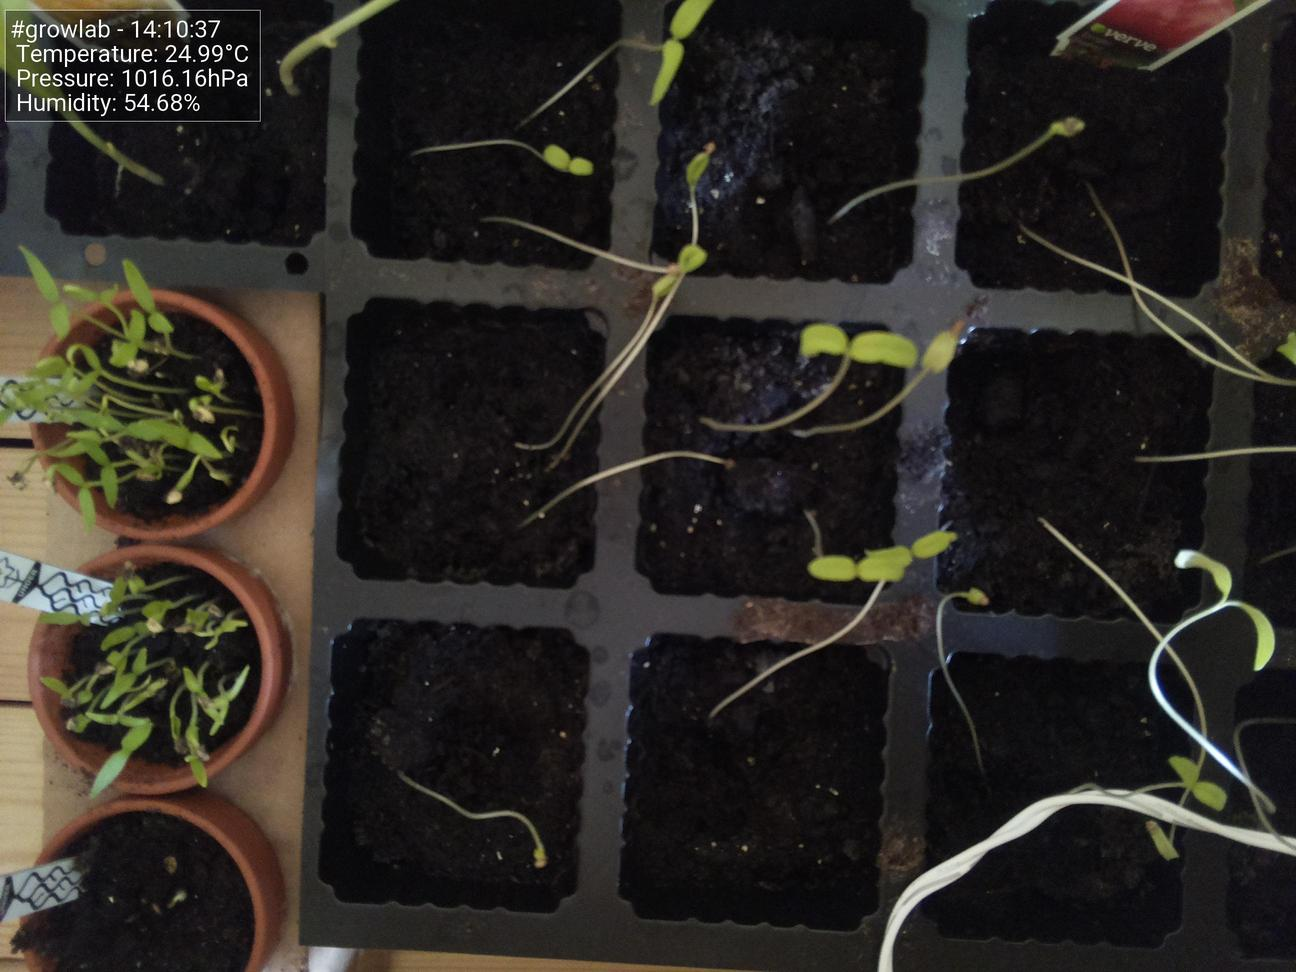
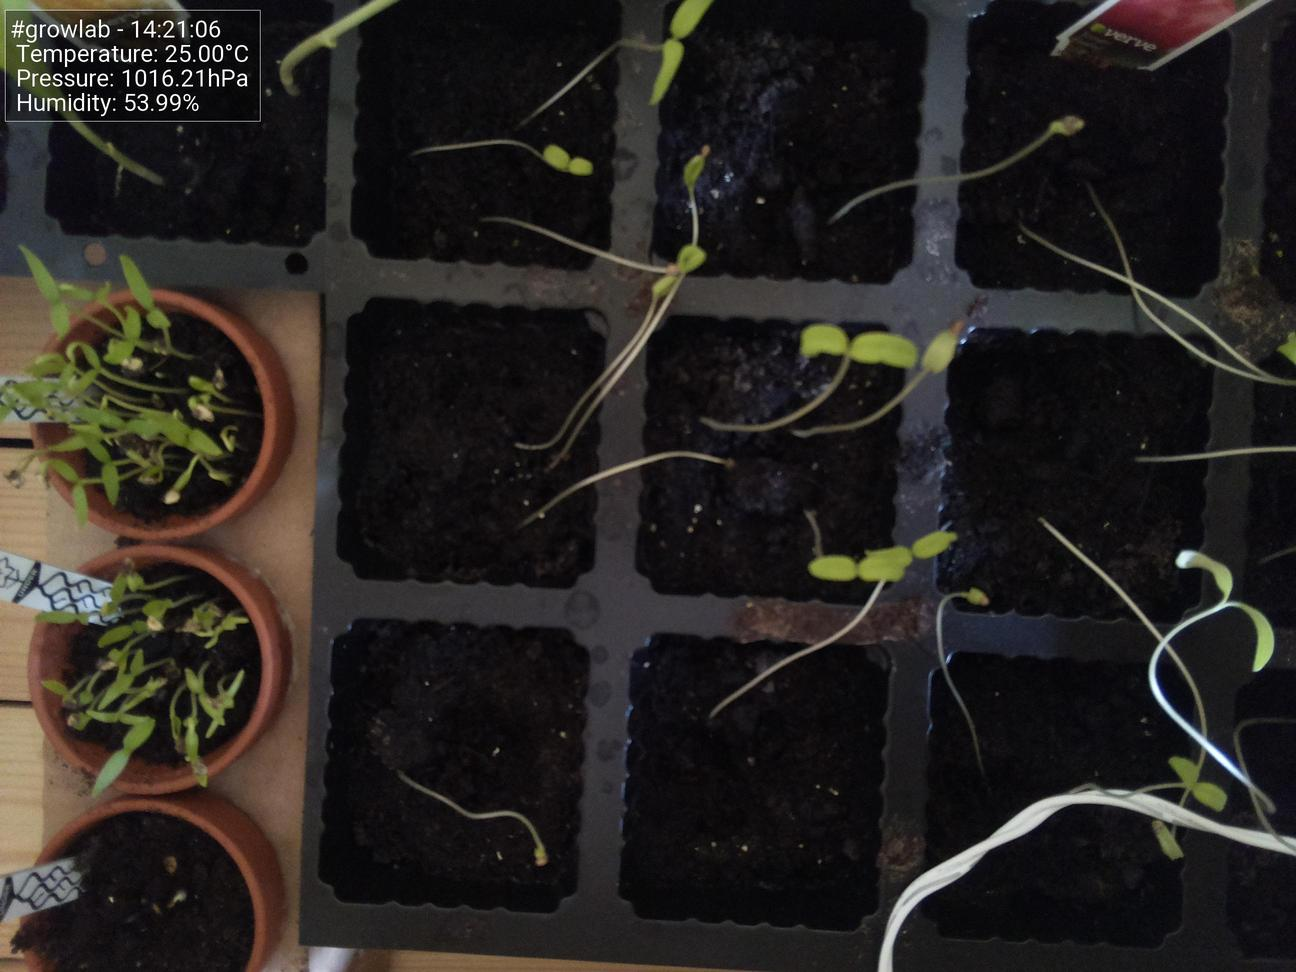
Update images at Fri  4 Jun 14:21:22 BST 2021

diff --git a/index.html b/index.html
@@ -47,19 +47,19 @@
                         <tbody>
                             <tr>
                                 <td>Time</td>
-                                <td>14:10:37</td>
+                                <td>14:21:06</td>
                             </tr>
                             <tr>
                                 <td>Temperature</td>
-                                <td>24.99°C</td>
+                                <td>25.00°C</td>
                             </tr>
                             <tr>
                                 <td>Humidity</td>
-                                <td>54.68%</td>
+                                <td>53.99%</td>
                             </tr>
                             <tr>
                                 <td>Pressure</td>
-                                <td>1016.16hPa</td>
+                                <td>1016.21hPa</td>
                             </tr>
                         </tbody>
                     </table>
@@ -67,7 +67,7 @@
 
                 <h5>Latest image</h5>
                 <div style="width: 85%;">
-                            <img class="figure-img img-fluid rounded" src="./preview.jpg?uid=1622812253.129133">
+                            <img class="figure-img img-fluid rounded" src="./preview.jpg?uid=1622812881.9268236">
                 </div>
             </div>
         </div>
